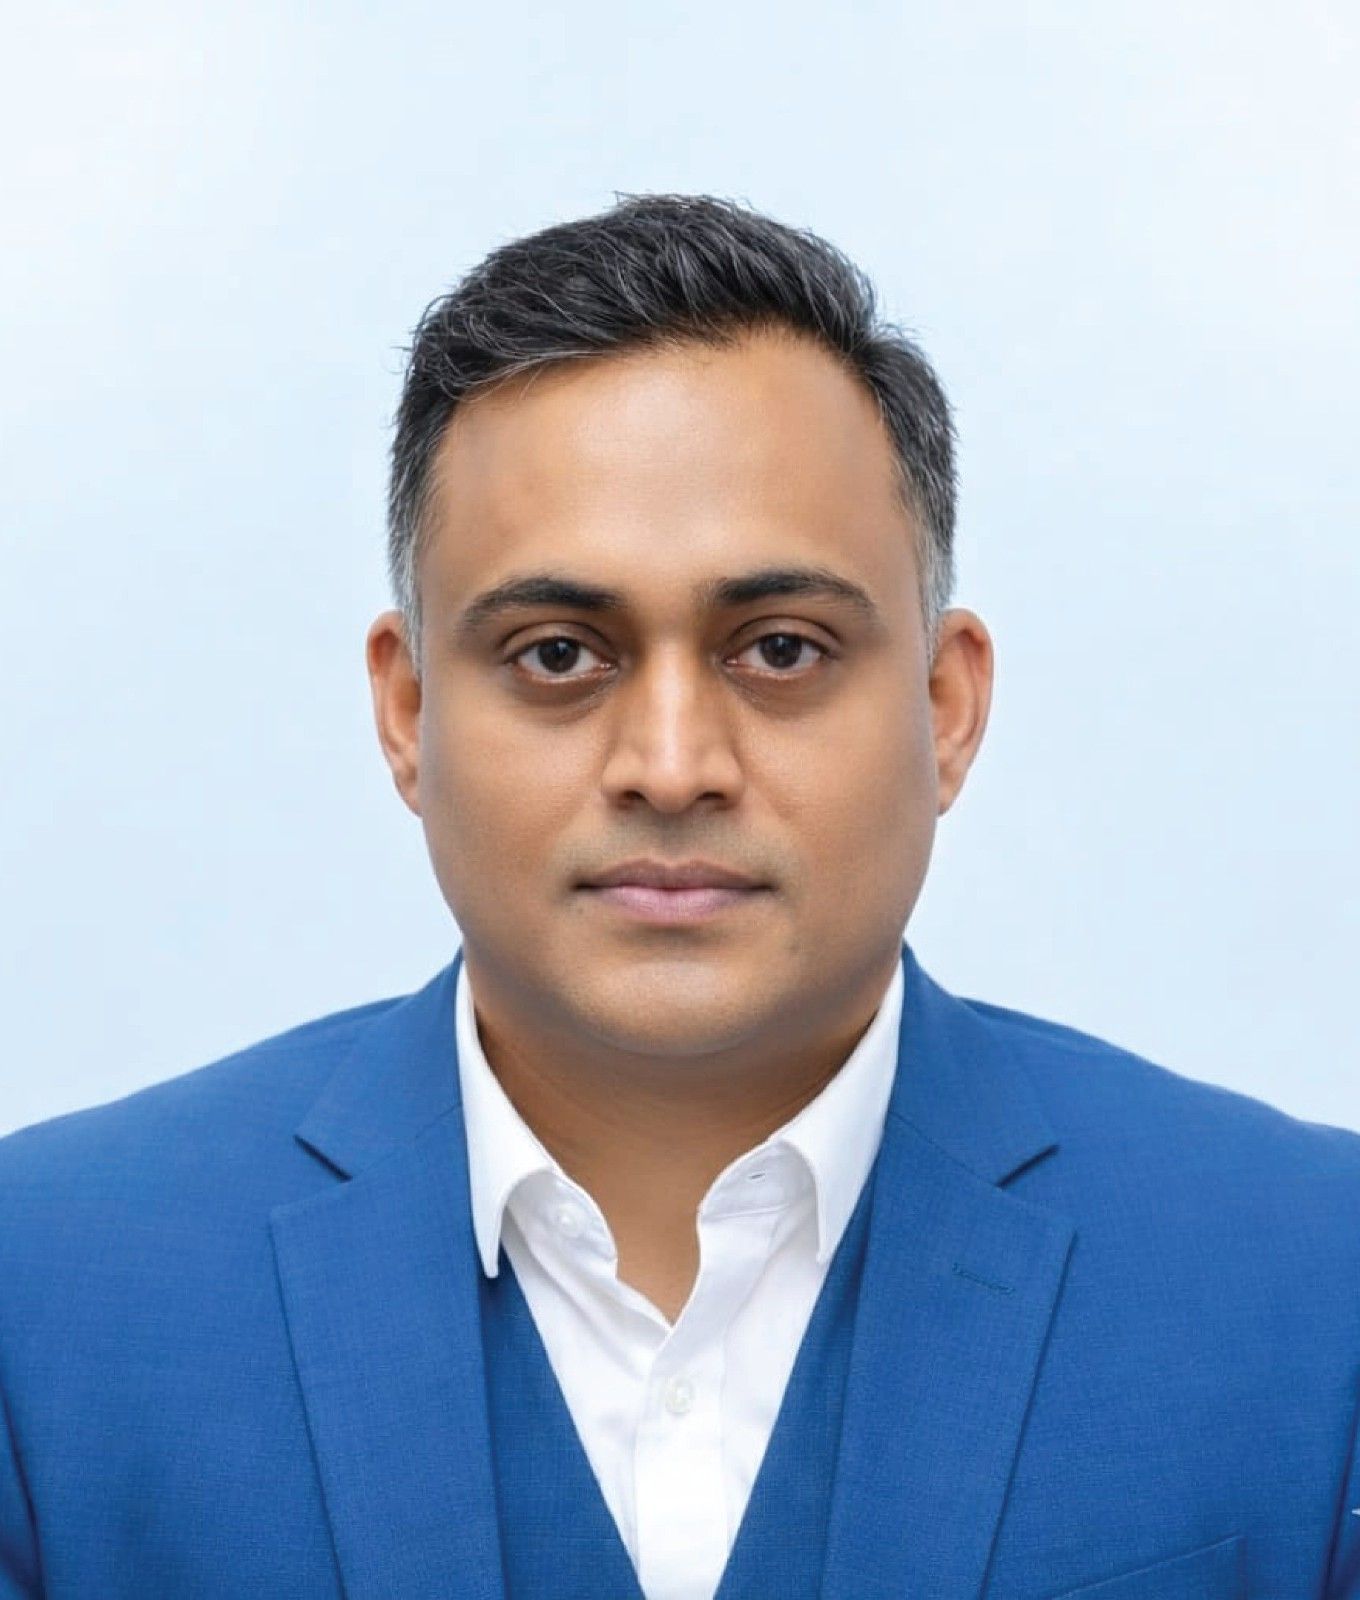
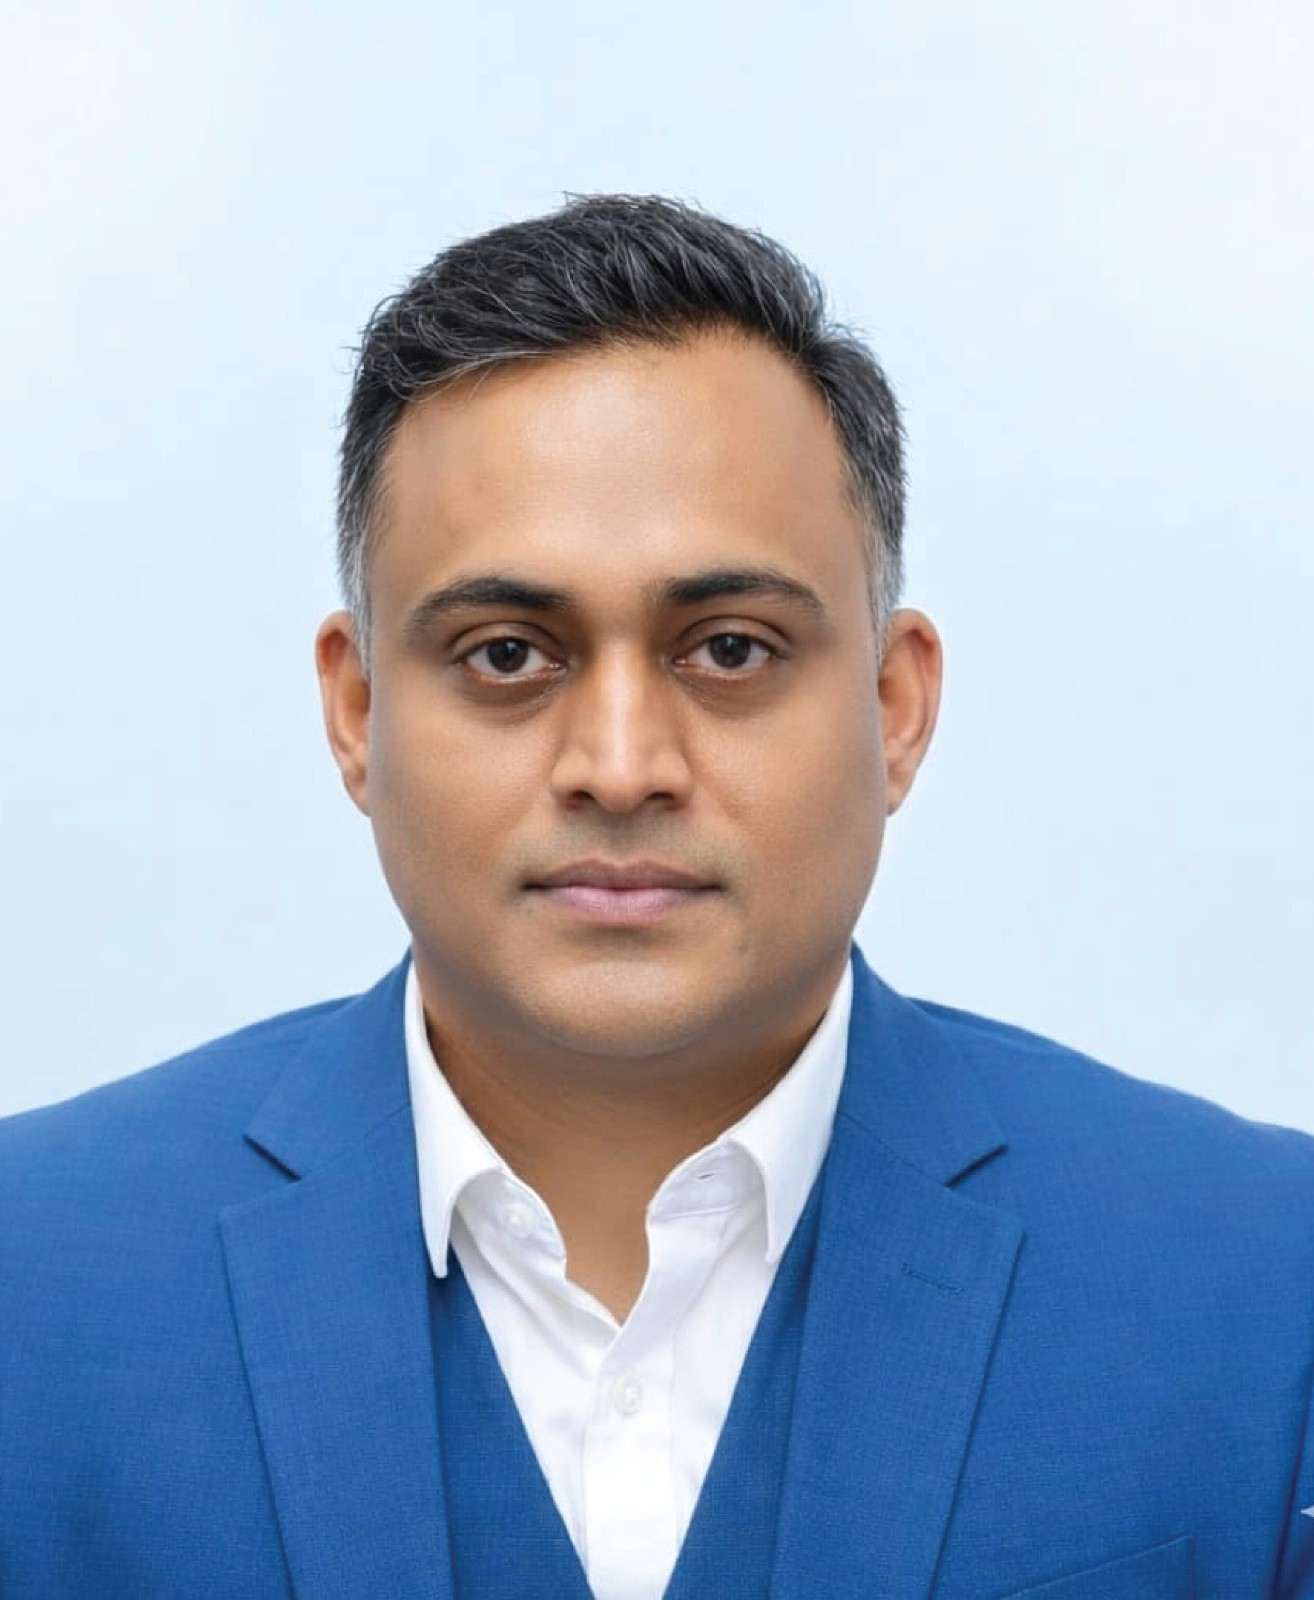
feat(about): Treasurer Office page (VC as Treasurer); update Aziz/Alim photos
- New /treasurer-office: About, Responsibilities (7), single office head card
  (Prof. Dr. Mohammad Ekramol Islam, Treasurer / Vice Chancellor).
- Wire nav About > Governing Bodies > 'Treasurer Office'.
- Replace Board of Trustees / Chairman / General Secretary photos for
  Engr. Abdul Aziz and Engr. Md. Abdul Alim.

diff --git a/app/treasurer-office/page.tsx b/app/treasurer-office/page.tsx
@@ -1,0 +1,158 @@
+import { buildMetadata } from '@/lib/metadata';
+import HeaderUniversity from '@/components/layout/HeaderUniversity';
+import FooterUniversity from '@/components/layout/FooterUniversity';
+import PageBanner from '@/components/sections/PageBanner';
+import Container from '@/components/ui/Container';
+import { Check } from 'lucide-react';
+
+export const metadata = buildMetadata({
+  title: 'Treasurer Office',
+  description:
+    'The Treasurer Office oversees the financial governance of Sonargaon University, safeguarding its funds, financial policy, and compliance.',
+  path: '/treasurer-office',
+});
+
+const RESPONSIBILITIES = [
+  'Custodianship of university funds & financial assets',
+  'Financial policy, budgeting & oversight',
+  'Approving and monitoring major expenditures',
+  'Presenting financial reports to the Syndicate & Board of Trustees',
+  'Overseeing investments & financial planning',
+  'Coordinating with Finance & Accounts and Audit offices',
+  'Ensuring financial compliance with UGC & statutory requirements',
+];
+
+const HEAD = {
+  name: 'Prof. Dr. Mohammad Ekramol Islam',
+  role: 'Treasurer (Vice Chancellor)',
+  photo: '/assets/images/leadership/ekramol-islam.png',
+};
+
+export default function TreasurerOfficePage() {
+  return (
+    <>
+      <HeaderUniversity />
+      <PageBanner
+        title="Treasurer Office"
+        breadcrumb={[
+          { label: 'Home', href: '/' },
+          { label: 'About', href: '/about' },
+          { label: 'Treasurer Office' },
+        ]}
+      />
+
+      {/* About */}
+      <section style={{ background: '#ffffff', padding: '80px 0 40px' }}>
+        <Container className="!max-w-[1100px]">
+          <div style={{ textAlign: 'center', maxWidth: 880, margin: '0 auto' }}>
+            <span style={{ display: 'inline-block', color: '#CC1579', fontWeight: 700, fontSize: 13, letterSpacing: '0.18em', textTransform: 'uppercase', marginBottom: 14 }}>
+              Governing Bodies
+            </span>
+            <h2 style={{ fontFamily: 'var(--font-poppins), Poppins, sans-serif', fontWeight: 700, color: '#2B3175', fontSize: 'clamp(26px, 3.4vw, 38px)', lineHeight: 1.25, marginBottom: 18 }}>
+              About this Office
+            </h2>
+            <p style={{ color: '#5B5B78', fontSize: 17, lineHeight: 1.85, margin: 0 }}>
+              The Treasurer Office oversees the financial governance of Sonargaon University. As the custodian
+              of the university&rsquo;s funds and financial policy, the office ensures that SU&rsquo;s resources
+              are managed responsibly, transparently, and in line with the decisions of the Syndicate and Board
+              of Trustees. Working alongside the Finance &amp; Accounts and Audit offices, the Treasurer
+              safeguards the university&rsquo;s financial health in support of its academic mission.
+            </p>
+          </div>
+        </Container>
+      </section>
+
+      {/* Responsibilities */}
+      <section style={{ background: '#ffffff', padding: '20px 0 80px' }}>
+        <Container className="!max-w-[1100px]">
+          <h3 style={{ fontFamily: 'var(--font-poppins), Poppins, sans-serif', fontWeight: 700, color: '#2B3175', fontSize: 22, marginBottom: 26, textAlign: 'center' }}>
+            Responsibilities
+          </h3>
+          <div className="tr-resp">
+            {RESPONSIBILITIES.map((r) => (
+              <div key={r} className="tr-resp__item">
+                <span className="tr-resp__icon">
+                  <Check size={15} strokeWidth={3} />
+                </span>
+                <span>{r}</span>
+              </div>
+            ))}
+          </div>
+        </Container>
+      </section>
+
+      {/* Office Head */}
+      <section style={{ background: '#F6F7FC', padding: '80px 0 90px' }}>
+        <Container className="!max-w-[1100px]">
+          <h2 style={{ fontFamily: 'var(--font-poppins), Poppins, sans-serif', fontWeight: 700, color: '#2B3175', fontSize: 'clamp(26px, 3.4vw, 38px)', textAlign: 'center', marginBottom: 48 }}>
+            Office Head
+          </h2>
+
+          <div className="tr-head-wrap">
+            <article className="tr-card">
+              <div className="tr-card__photo-wrap">
+                {/* eslint-disable-next-line @next/next/no-img-element */}
+                <img src={HEAD.photo} alt="" aria-hidden className="tr-card__bg" />
+                {/* eslint-disable-next-line @next/next/no-img-element */}
+                <img src={HEAD.photo} alt={HEAD.name} className="tr-card__photo" />
+              </div>
+              <div className="tr-card__body">
+                <h3 className="tr-card__name">{HEAD.name}</h3>
+                <p className="tr-card__role">{HEAD.role}</p>
+                <span className="tr-card__badge">Treasurer</span>
+              </div>
+            </article>
+          </div>
+        </Container>
+      </section>
+
+      <FooterUniversity />
+
+      <style>{`
+        .tr-resp { display: grid; grid-template-columns: 1fr; gap: 14px; }
+        @media (min-width: 700px) { .tr-resp { grid-template-columns: 1fr 1fr; } }
+        .tr-resp__item {
+          display: flex; align-items: center; gap: 14px;
+          background: #F8F8FC; border: 1px solid #ECECF3; border-radius: 12px; padding: 18px 22px;
+          color: #2B3175; font-size: 15.5px; font-weight: 500;
+        }
+        .tr-resp__icon {
+          flex-shrink: 0; width: 28px; height: 28px; border-radius: 8px;
+          display: inline-flex; align-items: center; justify-content: center;
+          background: rgba(204,21,121,0.10); color: #CC1579;
+        }
+
+        .tr-head-wrap { display: flex; justify-content: center; }
+        .tr-card { width: 100%; max-width: 330px;
+          background: #ffffff; border: 1px solid #ECECF3; overflow: hidden;
+          box-shadow: 0 12px 34px rgba(43,49,117,0.06); display: flex; flex-direction: column;
+          transition: transform .25s ease, box-shadow .25s ease;
+        }
+        .tr-card:hover { transform: translateY(-5px); box-shadow: 0 24px 50px rgba(43,49,117,0.13); }
+        .tr-card__photo-wrap {
+          position: relative; border-bottom: 1px solid #ECECF3; background: #EEF0F6;
+          overflow: hidden; aspect-ratio: 1 / 1;
+        }
+        .tr-card__bg {
+          position: absolute; inset: 0; width: 100%; height: 100%; object-fit: cover;
+          object-position: center; transform: scale(1.15); filter: blur(18px) brightness(0.92); z-index: 0;
+        }
+        .tr-card__photo {
+          position: relative; z-index: 1; width: 100%; height: 100%;
+          object-fit: contain; object-position: center; display: block;
+        }
+        .tr-card__body { padding: 22px 24px 24px; text-align: center; }
+        .tr-card__name {
+          font-family: var(--font-poppins), Poppins, sans-serif; font-weight: 700;
+          color: #2B3175; font-size: 18px; line-height: 1.3; margin: 0 0 5px;
+        }
+        .tr-card__role { color: #5B5B78; font-size: 14px; line-height: 1.4; margin: 0 0 12px; }
+        .tr-card__badge {
+          display: inline-block; background: linear-gradient(135deg, #2B3175, #CC1579);
+          color: #fff; font-size: 11px; font-weight: 700; letter-spacing: 0.06em; text-transform: uppercase;
+          padding: 6px 14px; border-radius: 999px;
+        }
+      `}</style>
+    </>
+  );
+}

diff --git a/lib/nav-config.ts b/lib/nav-config.ts
@@ -113,7 +113,7 @@ export const mainNav: readonly MainNavGroup[] = [
       {
         title: 'Governing Bodies',
         items: [
-          { name: 'Treasurer Office',  href: '#' },
+          { name: 'Treasurer Office',  href: '/treasurer-office' },
           { name: 'Board of Trustees', href: '/board-of-trustees' },
         ],
       },